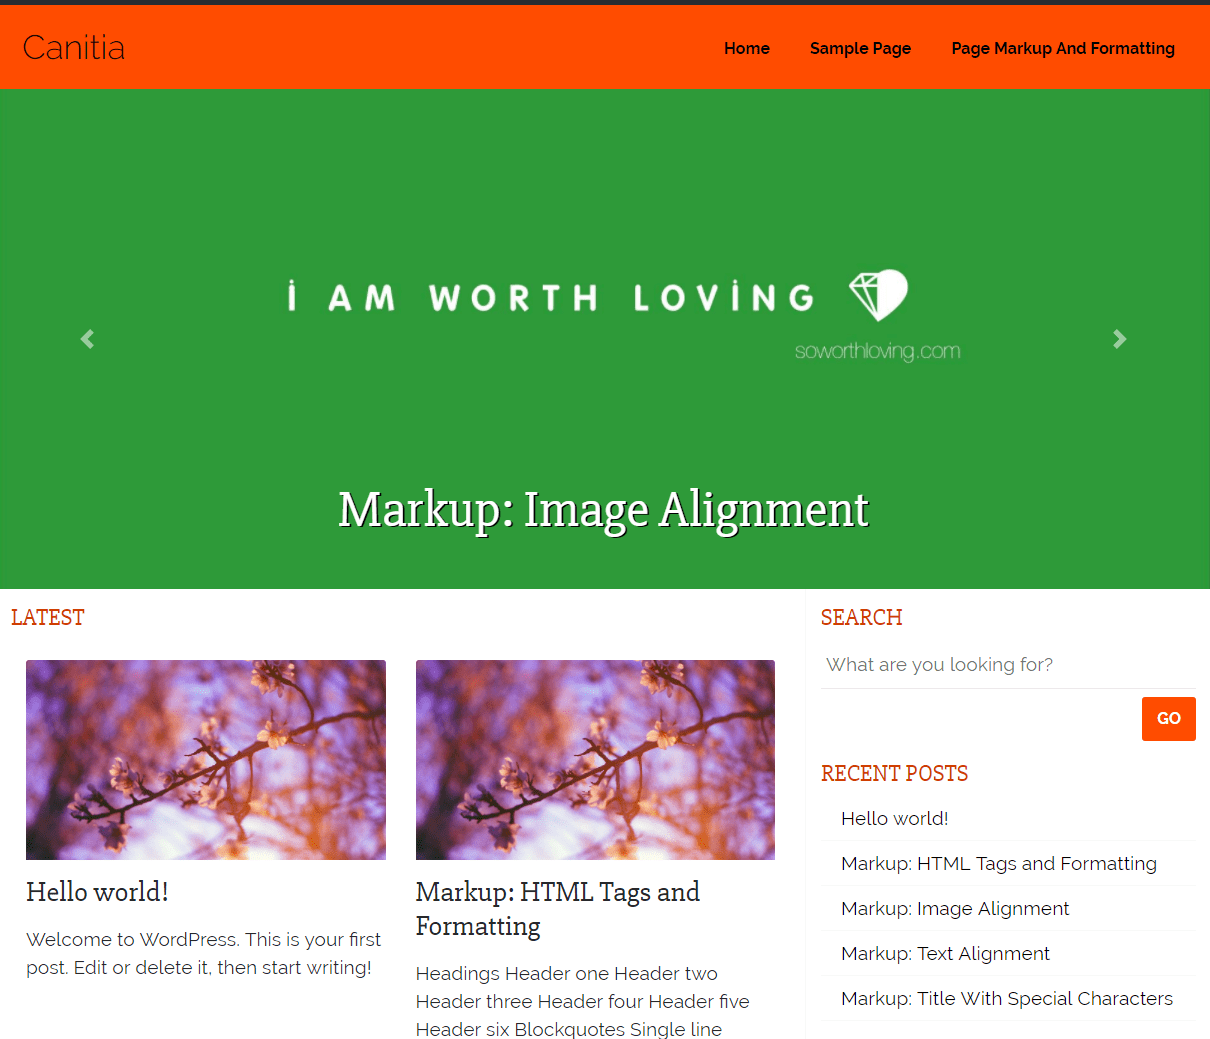
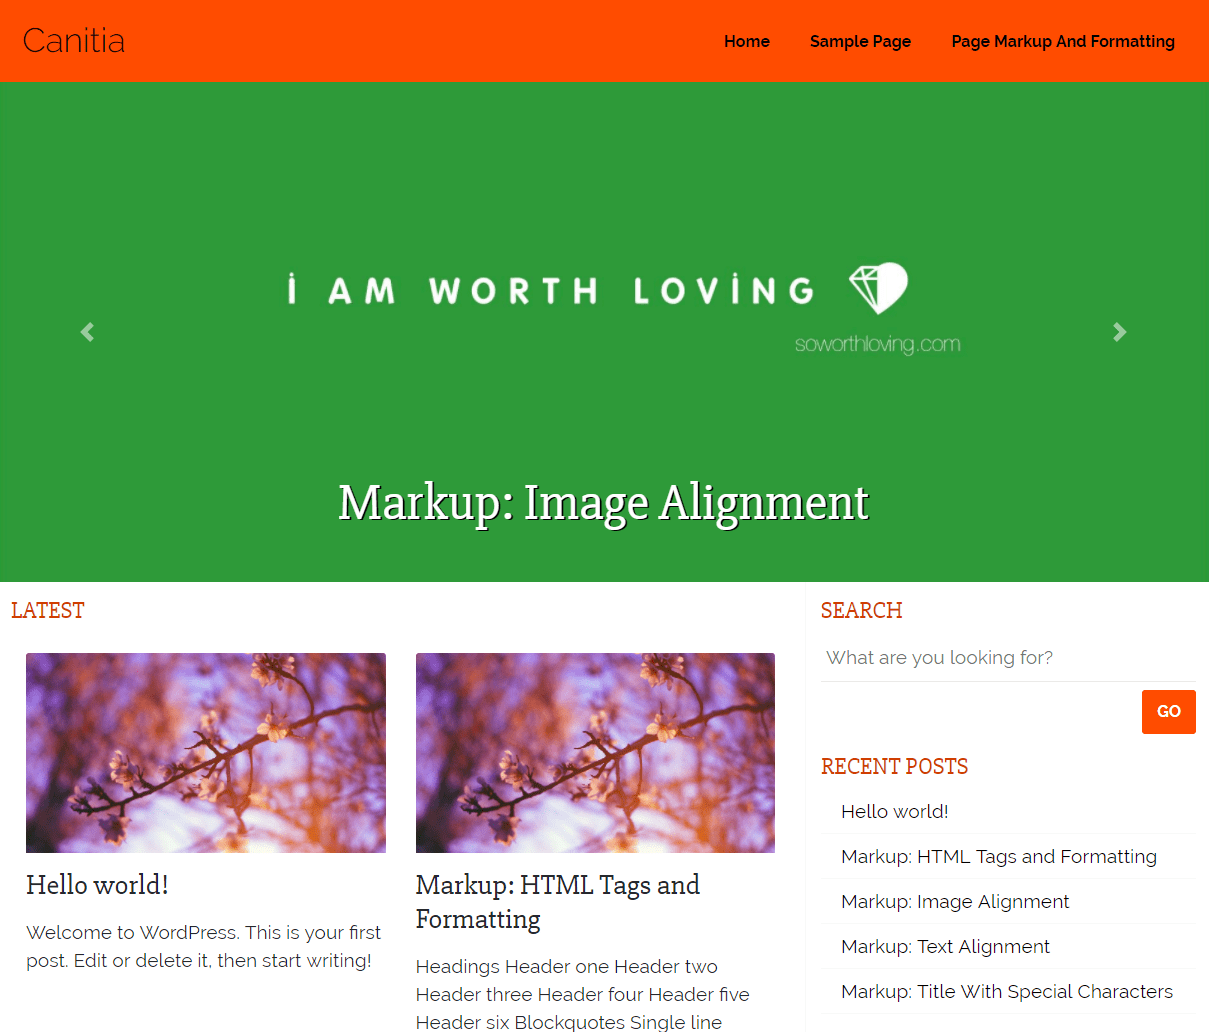
reduce carousel height mobile

diff --git a/style.css b/style.css
@@ -259,6 +259,15 @@ strong {
 	filter: brightness(80%) !important;
 }
 
+.carousel {
+	max-height: 300px;
+}
+
+.carousel-item {
+	max-height: 300px;
+	width: 100%;
+}
+
 /* **************************************
 
   FEATURED POSTS LOOK-N-FEEL
@@ -485,7 +494,7 @@ POST/ARTICLE HEADERS
 	width: 100%;	
 }
 
-.carousel:hover, .archive-image:hover {
+.archive-image:hover {
 	filter: brightness(80%) !important;
 }
 
@@ -759,6 +768,16 @@ footer p {
 *****************************************/
 
 @media (max-width: 575px) {  
+
+	.carousel {
+		max-height: 250px;
+	}
+	
+	.carousel-item {
+		max-height: 250px;
+		width: 100%;
+	}
+
 	.container-fluid {
 		padding: 0 !important;
 	}
@@ -932,6 +951,15 @@ footer p {
 
 /* Small devices (landscape phones, 576px and up) */
 @media (min-width: 576px) and (max-width: 767px) { 
+
+	.carousel {
+		max-height: 250px;
+	}
+	
+	.carousel-item {
+		max-height: 250px;
+		width: 100%;
+	}
 
 	.card {
 		border-bottom: 1px solid #ebebeb !important;
